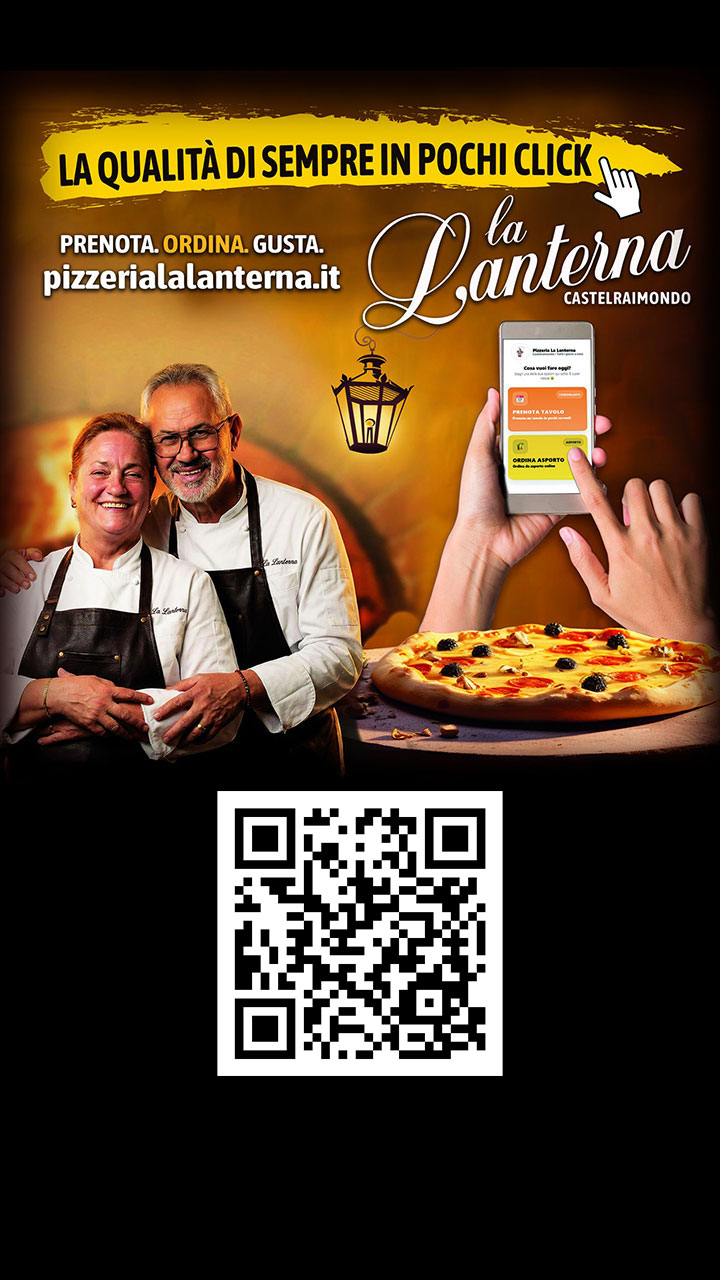
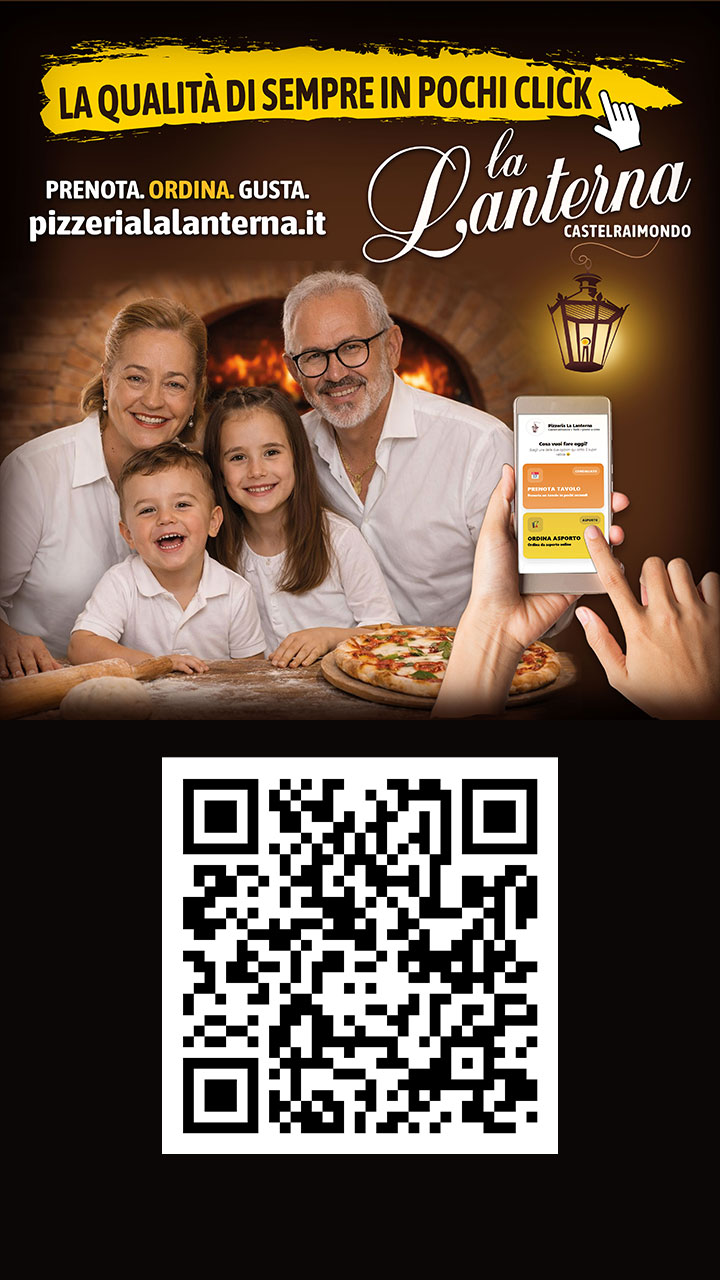
ciao

diff --git a/src/app/pages/gelateria-centrale/gelateria-centrale.component.html b/src/app/pages/gelateria-centrale/gelateria-centrale.component.html
@@ -33,7 +33,16 @@
     <ion-row class="gc-row">
       <ion-col size="12" sizeLg="6">
         <div class="gc-photo-frame">
-          <img [src]="c.storyImage" alt="La storia - foto d'epoca" />
+          <img
+            [src]="c.storyImage"
+            alt="La storia - foto d'epoca"
+            class="gc-img-tappable"
+            role="button"
+            tabindex="0"
+            (click)="openImageLightboxFromEvent($event)"
+            (keydown.enter)="openImageLightboxFromEvent($event)"
+            (keydown.space)="$event.preventDefault(); openImageLightboxFromEvent($event)"
+          />
         </div>
       </ion-col>
       <ion-col size="12" sizeLg="6" class="gc-story">
@@ -53,7 +62,17 @@
 
       <div class="gc-gallery">
         <div class="gc-gallery__item" *ngFor="let img of c.presentImages; trackBy: trackByIndex">
-          <img [src]="img.src" [alt]="img.alt" loading="lazy" />
+          <img
+            [src]="img.src"
+            [alt]="img.alt"
+            loading="lazy"
+            class="gc-img-tappable"
+            role="button"
+            tabindex="0"
+            (click)="openImageLightboxFromEvent($event)"
+            (keydown.enter)="openImageLightboxFromEvent($event)"
+            (keydown.space)="$event.preventDefault(); openImageLightboxFromEvent($event)"
+          />
         </div>
       </div>
     </ion-card-content>
@@ -70,7 +89,16 @@
       </div>
 
       <div class="gc-creations" *ngIf="c.creationsImage">
-        <img [src]="c.creationsImage" alt="Alcune delle nostre creazioni" />
+        <img
+          [src]="c.creationsImage"
+          alt="Alcune delle nostre creazioni"
+          class="gc-img-tappable"
+          role="button"
+          tabindex="0"
+          (click)="openImageLightboxFromEvent($event)"
+          (keydown.enter)="openImageLightboxFromEvent($event)"
+          (keydown.space)="$event.preventDefault(); openImageLightboxFromEvent($event)"
+        />
       </div>
 
       <!-- Il primo h4 ('Gelateria Artigianale') verrà reso come titolo rosso grande -->
@@ -78,3 +106,36 @@
     </ion-card-content>
   </ion-card>
 </section>
+
+<!-- Immagine a tutto schermo: Chiudi per tornare alla pagina -->
+<ion-modal
+  [isOpen]="lightboxOpen"
+  (didDismiss)="closeImageLightbox()"
+  class="gc-lightbox-modal"
+  backdropDismiss="true"
+>
+  <ng-template>
+    <ion-header class="ion-no-border">
+      <ion-toolbar>
+        <ion-title>{{ lightboxAlt || 'Immagine' }}</ion-title>
+        <ion-buttons slot="end">
+          <ion-button fill="solid" color="light" (click)="closeImageLightbox()" aria-label="Chiudi immagine">
+            <ion-icon slot="start" name="close-outline"></ion-icon>
+            Chiudi
+          </ion-button>
+        </ion-buttons>
+      </ion-toolbar>
+    </ion-header>
+    <ion-content class="gc-lightbox-content" [fullscreen]="true">
+      <div class="gc-lightbox-body" (click)="closeImageLightbox()">
+        <img
+          *ngIf="lightboxSrc"
+          [src]="lightboxSrc"
+          [alt]="lightboxAlt"
+          class="gc-lightbox-img"
+          (click)="$event.stopPropagation()"
+        />
+      </div>
+    </ion-content>
+  </ng-template>
+</ion-modal>

diff --git a/src/app/pages/gelateria-centrale/gelateria-centrale.component.ts b/src/app/pages/gelateria-centrale/gelateria-centrale.component.ts
@@ -1,13 +1,13 @@
 import { Component, Input } from '@angular/core';
 import { CommonModule } from '@angular/common';
 import {
-  IonCard, IonCardHeader, IonCardTitle, IonCardContent,
+  IonCard, IonCardContent,
   IonGrid, IonRow, IonCol,
-  IonButton, IonIcon, IonLabel, IonList, IonItem, IonNote, IonText, IonContent
+  IonButton, IonIcon, IonContent,
+  IonModal, IonHeader, IonToolbar, IonButtons, IonTitle,
 } from '@ionic/angular/standalone';
-import { RouterLink } from '@angular/router';
 import { addIcons } from 'ionicons';
-import { imagesOutline } from 'ionicons/icons';
+import { closeOutline } from 'ionicons/icons';
 import { GC_DEFAULT_CONTENT, type GcContent } from './gelateria-centrale.content';
 
 @Component({
@@ -17,11 +17,11 @@ import { GC_DEFAULT_CONTENT, type GcContent } from './gelateria-centrale.content
   styleUrls: ['./gelateria-centrale.component.scss'],
   imports: [
     CommonModule,
-    RouterLink,
     IonContent,
-    IonCard, IonCardHeader, IonCardTitle, IonCardContent,
+    IonCard, IonCardContent,
     IonGrid, IonRow, IonCol,
-    IonButton, IonIcon, IonLabel, IonList, IonItem, IonNote, IonText
+    IonButton, IonIcon,
+    IonModal, IonHeader, IonToolbar, IonButtons, IonTitle,
   ]
 })
 export class GelateriaCentraleComponent {
@@ -36,8 +36,13 @@ export class GelateriaCentraleComponent {
   @Input() phone: string | null = null;
   @Input() websiteUrl?: string;
 
+  /** Lightbox immagine a tutto schermo */
+  lightboxOpen = false;
+  lightboxSrc = '';
+  lightboxAlt = '';
+
   constructor() {
-    addIcons({ imagesOutline });
+    addIcons({ closeOutline });
   }
 
   get c(): GcContent {
@@ -47,6 +52,25 @@ export class GelateriaCentraleComponent {
   scrollTo(id: string): void {
     const el = document.getElementById(id);
     if (el) el.scrollIntoView({ behavior: 'smooth', block: 'start' });
+  }
+
+  openImageLightboxFromEvent(ev: Event): void {
+    const t = ev.target as HTMLImageElement | null;
+    if (!t?.src) return;
+    ev.stopPropagation();
+    this.openImageLightbox(t.currentSrc || t.src, t.alt || '');
+  }
+
+  openImageLightbox(src: string, alt: string): void {
+    this.lightboxSrc = src;
+    this.lightboxAlt = alt || '';
+    this.lightboxOpen = true;
+  }
+
+  closeImageLightbox(): void {
+    this.lightboxOpen = false;
+    this.lightboxSrc = '';
+    this.lightboxAlt = '';
   }
 
   trackByIndex = (i: number) => i;

diff --git a/src/app/pages/tutorial/tutorial.ts b/src/app/pages/tutorial/tutorial.ts
@@ -89,8 +89,8 @@ export class TutorialPage implements OnInit, AfterViewInit, OnDestroy {
     { kind: "image", src: "assets/poster/a3_01.jpg" },
     { kind: "image", src: "assets/poster/a3_02.jpg" },
 
-    // { kind: "image", src: "assets/poster/a3_03.jpg" },
-    { kind: "image", src: "assets/poster/a3_04.jpg" },
+    { kind: "image", src: "assets/poster/a3_03.jpg" },
+    // { kind: "image", src: "assets/poster/a3_04.jpg" },
     // { kind: "image", src: "assets/poster/lanterna.jpg", internalRoute: "/app/tabs/prenota-lanterna" },
 
         { kind: "image", src: "assets/poster/a3_05.jpg" },
@@ -107,9 +107,9 @@ export class TutorialPage implements OnInit, AfterViewInit, OnDestroy {
    
     { kind: "image", src: "assets/poster/a3_13.jpg" },
    
-    // { kind: "image", src: "assets/poster/a3_14.jpg" },
+    { kind: "image", src: "assets/poster/a3_14.jpg" },
     // { kind: "image", src: "assets/poster/a3_15.jpg" },
-    { kind: "image", src: "assets/poster/a3_16.jpg" },
+    // { kind: "image", src: "assets/poster/a3_16.jpg" },
    
    
     { kind: "video", src: "assets/poster/eclissi.mp4" }, // video carosello centrale_video.mp4

diff --git a/src/app/pages/gelateria-centrale/gelateria-centrale.component.scss b/src/app/pages/gelateria-centrale/gelateria-centrale.component.scss
@@ -189,3 +189,38 @@
 
   p { margin: 0 0 10px; }
 }
+
+/* Immagini apribili a tutto schermo */
+.gc-img-tappable {
+  cursor: pointer;
+}
+
+/* Modal lightbox */
+.gc-lightbox-modal::part(content) {
+  --width: 100%;
+  --height: 100%;
+  --border-radius: 0;
+  --background: #000;
+}
+
+.gc-lightbox-content {
+  --background: #000;
+}
+
+.gc-lightbox-body {
+  min-height: 100%;
+  display: grid;
+  place-items: center;
+  padding: 8px;
+  background: #000;
+  cursor: pointer;
+}
+
+.gc-lightbox-img {
+  max-width: 100%;
+  max-height: min(85vh, calc(100dvh - 140px));
+  width: auto;
+  height: auto;
+  object-fit: contain;
+  cursor: default;
+}
